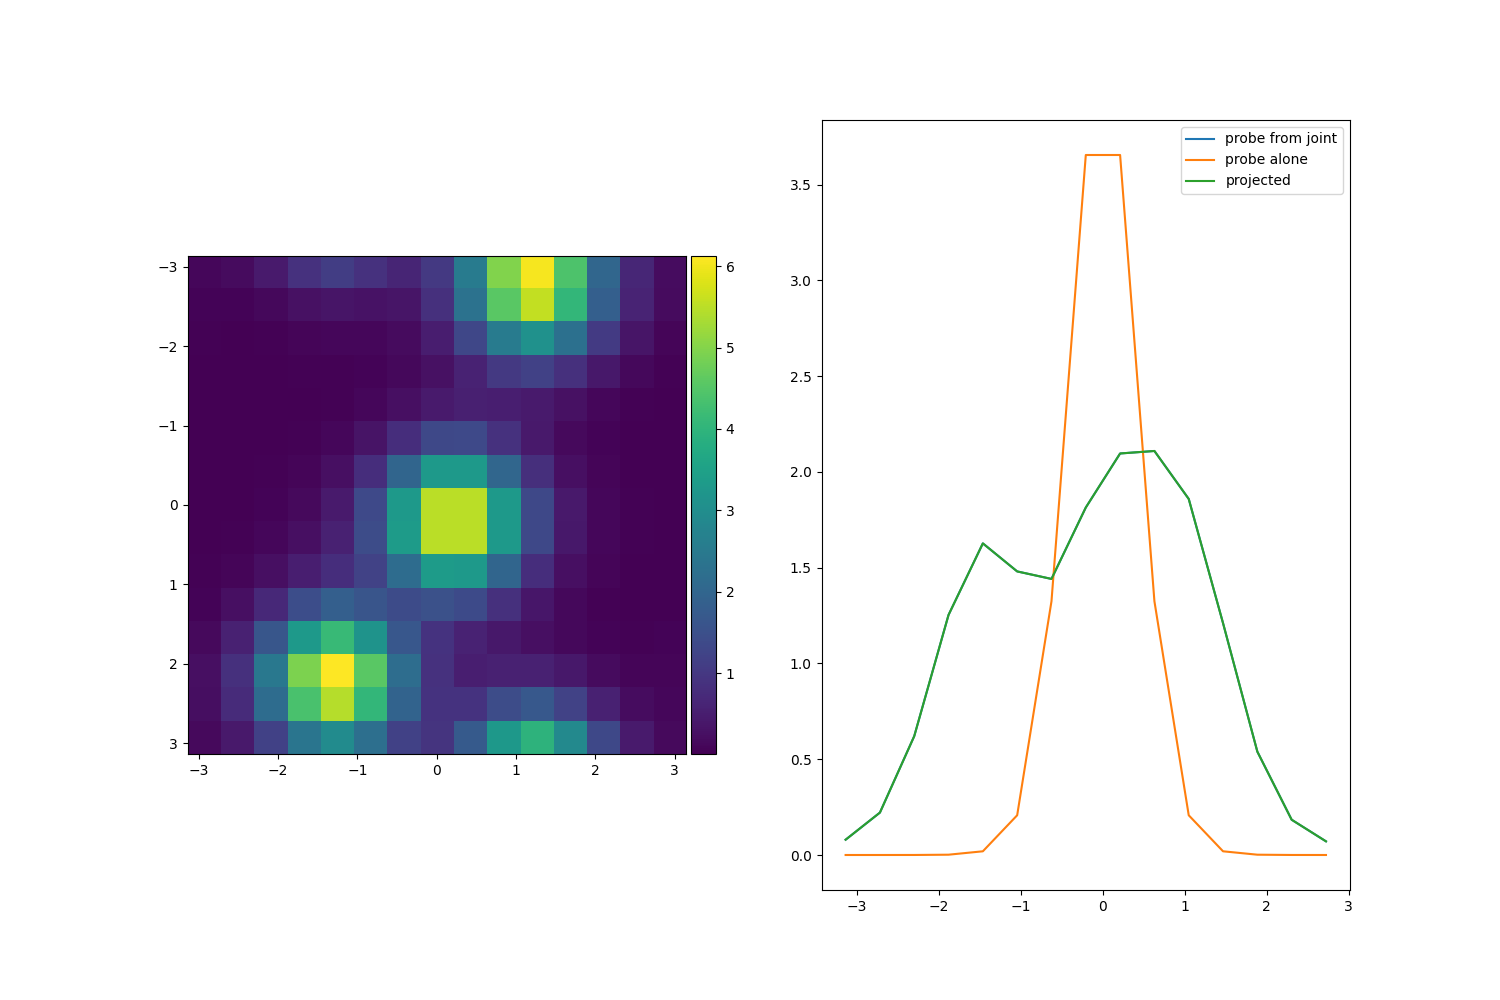
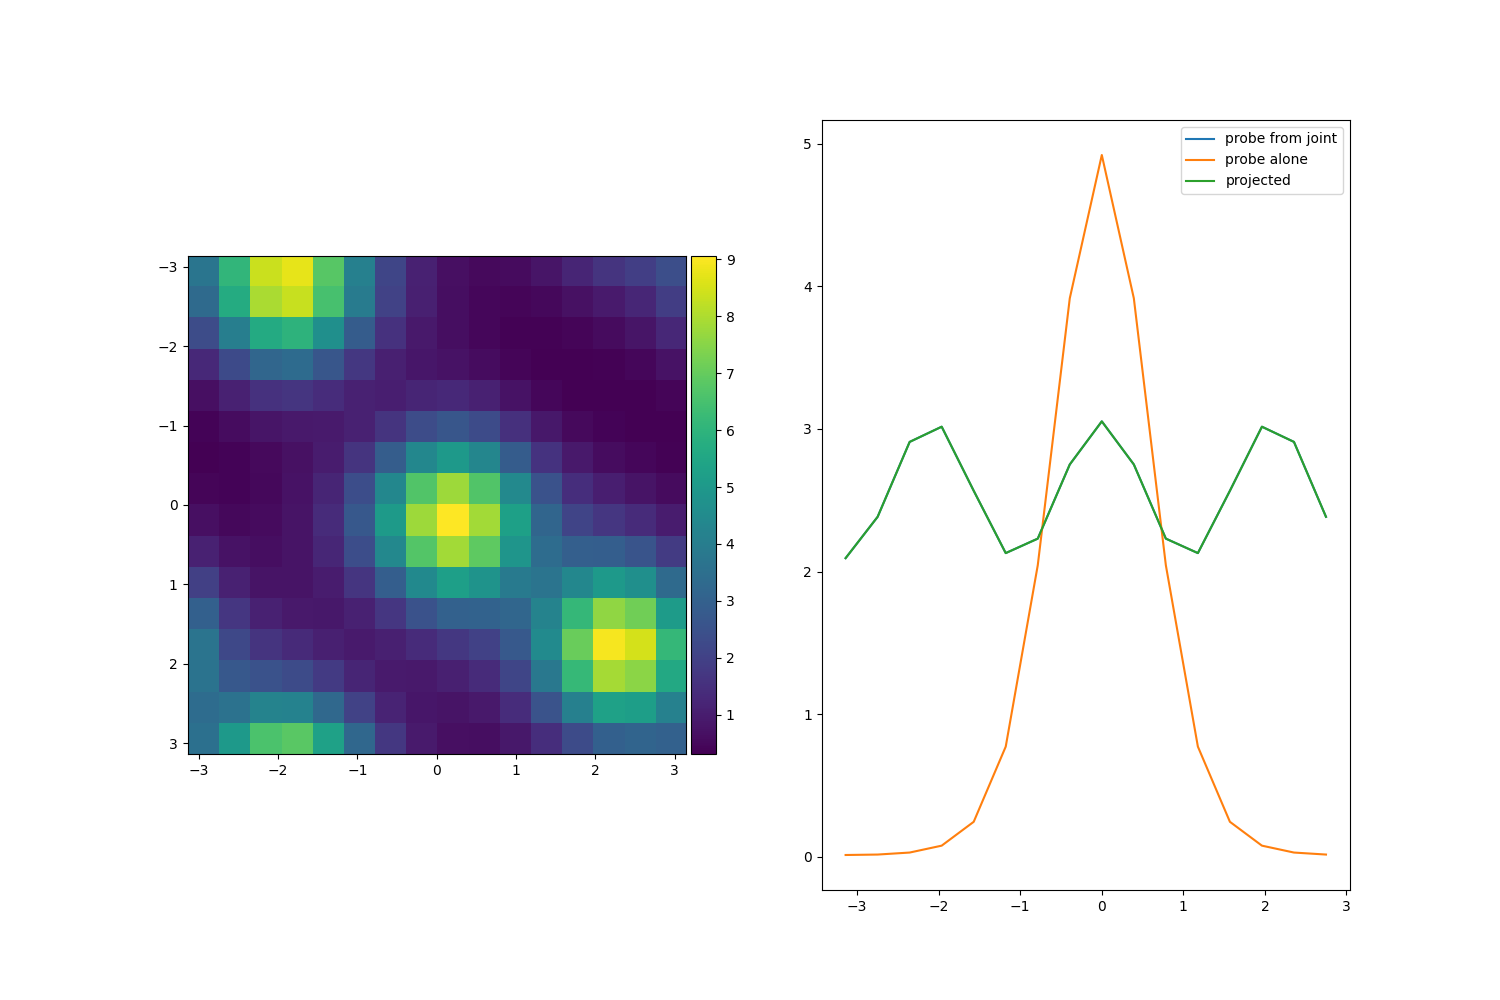
attractive force cue done

diff --git a/dynamic_observer/palimpsest.py b/dynamic_observer/palimpsest.py
@@ -79,7 +79,7 @@ class PalimpsestRepresentation:
         """
         y = self.single_mean_response(feature_values = probe_values, feature_name = 'probe', rescale = rescale)
         
-        obs_covar = 0.008 * torch.eye(self.probe_num_tc)[*[None]*(len(probe_values.shape)-1)].repeat(*probe_values.shape[:-1], 1, 1)
+        obs_covar = 0.006 * torch.eye(self.probe_num_tc)[*[None]*(len(probe_values.shape)-1)].repeat(*probe_values.shape[:-1], 1, 1)
 
         A_squared_canvas = torch.zeros(*probe_values.shape[:-1], self.probe_num_tc, self.report_num_tc, self.probe_num_tc)
         for i in range(self.probe_num_tc):
@@ -98,9 +98,10 @@ class PalimpsestRepresentation:
 
 class CircularDDM:
 
-    def __init__(self, duration: float, discretiser: DynamicsDiscretiser) -> None:
+    def __init__(self, duration: float, discretiser: DynamicsDiscretiser, noise_mag: float) -> None:
         self.duration = duration
         self.discretiser = discretiser
+        self.noise_mag = noise_mag
     
     def run_ddm(self, stimulus: _T, angles: _T) -> _T:
         """
@@ -116,11 +117,87 @@ class CircularDDM:
         angles_x, angles_y = angles.cos(), angles.sin() # both [num angles]
         resultants = (stimulus.unsqueeze(-1) * torch.stack([angles_x, angles_y], -1)[None, None, None]).mean(-2)    # [batch, num trials, num steps, 2]
 
-        scaled_noisy_resultants = (dt * resultants) + (dt.sqrt() * torch.randn_like(resultants))    # [batch, num trials, num steps, 2]
+        scaled_noisy_resultants = (dt * resultants) + (dt.sqrt() * self.noise_mag * torch.randn_like(resultants))    # [batch, num trials, num steps, 2]
 
         trajectory = scaled_noisy_resultants.cumsum(-2)  # [batch, num trials, 2]
 
         return trajectory
+
+
+
+def run_custom_dynamics(
+    start_samples: _T, smdm: ContinuousTimeScoreMatchingDiffusionModel, palimp: PalimpsestRepresentation,
+    stimuli: Tuple[_T, ...], cued_probe_values: _T, num_steps: int
+) -> _T:
+    """
+    start_samples of shape [B, D]
+
+    cued_probe_values of shape [B]
+    """
+    start_samples = start_samples.unsqueeze(-2) # [B, 1, D]
+
+    time: _T = torch.linspace(smdm.noise_schedule.duration, 0.0, num_steps+1)[1:]  # [num_steps]
+    time = time.reshape(1, -1, 1)   # [1, num steps, 1]
+
+    delta_t = - torch.diff(time, dim = len(time.shape)-2) # reverse time! [...1, num_steps - 1, 1]
+
+    num_extra_steps = delta_t.shape[-2]
+
+    beta = smdm.noise_schedule.beta(time)
+
+    trajectory = [start_samples]
+
+    score_approximator_dispatcher = smdm.score_approximator.prepare_dispatcher(
+        stimuli = stimuli, t = time[0, ..., :-1, 0]        # Not sure why but [1:] doesn't work here...!
+    )
+
+    fig, axes = plt.subplots(1)
+
+    current_cued_probe_values = cued_probe_values
+
+    for t_tilde_idx in tqdm(range(num_extra_steps)):
+
+        beta_k = beta[..., [t_tilde_idx], :]    # Not sure why but t_tilde_idx + 1 doesn't work here...!
+        dt = delta_t[..., [t_tilde_idx], :]
+        x_k = trajectory[-1]
+
+        score_approx = score_approximator_dispatcher.approximate_score(x_t = x_k, t_tilde_idx = t_tilde_idx)  # [B, 1, D]
+
+        if True:
+            cue_dimension_activation = x_k.reshape(x_k.shape[0], palimp.report_num_tc, palimp.probe_num_tc).mean(-2)
+            normed_cue_dimension_activation = (cue_dimension_activation / 10.0).softmax(-1)
+            diffs = rectify_angles(cued_probe_values.unsqueeze(-1) - palimp.probe_centers.unsqueeze(0))
+            force_on_cue_repr = (diffs * normed_cue_dimension_activation).sum(-1)
+
+            current_cued_probe_values = rectify_angles(current_cued_probe_values + (0.15 * torch.randn_like(cued_probe_values)))
+            current_cued_probe_values = rectify_angles(current_cued_probe_values + (0.25 * force_on_cue_repr))
+
+            axes.plot(palimp.probe_centers, cue_dimension_activation[0], color = 'blue', alpha = (t_tilde_idx + 10) / (num_extra_steps + 10))
+
+            diffusion_conditioning_info = palimp.generate_diffusion_conditioning(current_cued_probe_values, num_timesteps=1, rescale = 1.5)
+
+            A = diffusion_conditioning_info['A']
+            obs = diffusion_conditioning_info['y']
+            obs_covar = diffusion_conditioning_info['obs_covar']
+            obs_covar_inv = torch.inverse(obs_covar)
+            
+            assert x_k.shape[-2] == 1
+
+            conditioned_residual = obs - torch.einsum('...ij,...j->...i', A, x_k.squeeze(-2))
+            conditioned_score = torch.einsum('...ij,...ik,...k->...j', A, obs_covar_inv, conditioned_residual)
+            
+            score_approx = score_approx + conditioned_score.unsqueeze(-2)
+
+    
+        drift = - (0.5 * beta_k * x_k) - (beta_k * score_approx)    # f(x, t) - g(t)^2 * s(x, t)
+        diffusion = beta_k.sqrt()            # g(t) dW_t
+        next_step = smdm.discretiser.step(x_k, - drift, diffusion, dt)    # Reverse time!
+        trajectory.append(next_step)
+
+    fig.savefig('asdf2')
+
+    return torch.concat(trajectory, -2)
+
 
 
 
@@ -130,6 +207,8 @@ if __name__ == '__main__':
     import matplotlib.pyplot as plt
     from mpl_toolkits.axes_grid1 import make_axes_locatable
 
+
+    #### SETUP
     num_selected_timesteps = 10
     steps_between_displays = 10
     batch_size = 4
@@ -137,15 +216,73 @@ if __name__ == '__main__':
 
     num_ddm_trials = 100
 
-    palimpsest = PalimpsestRepresentation(probe_num_tc = 15, report_num_tc = 15, div_norm = False, tuning_scale = 3.0, resp_peak = 2.5)
+    palimpsest = PalimpsestRepresentation(probe_num_tc = 16, report_num_tc = 16, div_norm = False, tuning_scale = 2.0, resp_peak = 3.0)
 
-    probes = torch.tensor([1.0, -1.5, 0.0])
-    reports = torch.tensor([-3.0, 2.0, 0.0])
+    probes = torch.tensor([-torch.pi * 2 / 3, torch.pi * 2 / 3, 0.0])
+    reports = torch.tensor([-3.0, 1.6, 0.0])
+    cued_idx = 2
+
+    noise_schedule = LinearIncreaseNoiseSchedule(0.08, 0.15, duration = 15)
+
+    score_func = TrueScore(noise_schedule = noise_schedule)
+
+    discretiser = EulerDiscretiser()
+    
+    diffmodel = ContinuousTimeScoreMatchingDiffusionModel(
+        sample_dim=palimpsest.total_size, noise_schedule=noise_schedule, 
+        score_approximator=score_func, discretiser=discretiser
+    )
+    print('DDM HAS A DIFFERENT DURIATION TO DM')
+    ddm = CircularDDM(duration = 1.0, discretiser=discretiser, noise_mag = 0.25)
 
     all_mean_responses = palimpsest.all_mean_responses(probes, reports)
-    diffusion_conditioning_info = palimpsest.generate_diffusion_conditioning(probes[[2]], num_timesteps=num_reverse_dynamics_steps - 1, rescale = 2.0)
+    diffusion_conditioning_info = palimpsest.generate_diffusion_conditioning(probes[[cued_idx]], num_timesteps=num_reverse_dynamics_steps - 1, rescale = 1.5)
     projected_mean_resposes = diffusion_conditioning_info['A'][0] @ all_mean_responses['joint_resp']
-    
+
+    target_m0 = all_mean_responses['joint_resp'][None,None].repeat(num_reverse_dynamics_steps - 1, batch_size, 1)
+    target_S0 = torch.eye(palimpsest.total_size)[None,None].repeat(num_reverse_dynamics_steps - 1, batch_size, 1, 1)
+    target_S0 = target_S0 * target_m0.unsqueeze(-1) / 10
+    palimp_stimulus = (target_m0, target_S0)
+
+    ddm_driving_mult = 5.0
+    ##########
+
+
+    #### RUN DIFFUSION MODEL
+    base_samples = torch.randn(batch_size, palimpsest.total_size)
+    all_reverse_trajectories = diffmodel.run_unconditioned_reverse_dynamics(base_samples, palimp_stimulus, num_reverse_dynamics_steps)
+
+    base_samples = torch.randn(batch_size, palimpsest.total_size)
+    all_conditioned_reverse_trajectories = diffmodel.run_conditioned_reverse_dynamics(
+        base_samples, palimp_stimulus, num_reverse_dynamics_steps, 
+        diffusion_conditioning_info['y'], diffusion_conditioning_info['A'], diffusion_conditioning_info['obs_covar']
+    )
+
+    base_samples = torch.randn(batch_size, palimpsest.total_size)
+    all_custom_reverse_trajectories = run_custom_dynamics(
+        start_samples=base_samples, smdm=diffmodel, palimp=palimpsest,
+        stimuli = palimp_stimulus, cued_probe_values=probes[[cued_idx]].repeat(4),
+        num_steps = num_reverse_dynamics_steps
+    )
+    ##########
+
+
+
+    #### RUN DDM
+    uncond_ddm_driver = all_reverse_trajectories[0].reshape(num_reverse_dynamics_steps, palimpsest.report_num_tc, palimpsest.probe_num_tc).max(-1).values
+    unconditional_ddm_dynamics = ddm.run_ddm(ddm_driving_mult * uncond_ddm_driver[None,None].repeat(1, num_ddm_trials, 1, 1), palimpsest.report_centers)
+
+    cond_ddm_driver = all_conditioned_reverse_trajectories[0].reshape(num_reverse_dynamics_steps, palimpsest.report_num_tc, palimpsest.probe_num_tc).max(-1).values
+    conditional_ddm_dynamics = ddm.run_ddm(ddm_driving_mult * cond_ddm_driver[None,None].repeat(1, num_ddm_trials, 1, 1), palimpsest.report_centers)
+
+    custom_ddm_driver = all_custom_reverse_trajectories[0].reshape(num_reverse_dynamics_steps, palimpsest.report_num_tc, palimpsest.probe_num_tc).max(-1).values
+    custom_ddm_dynamics = ddm.run_ddm(ddm_driving_mult * custom_ddm_driver[None,None].repeat(1, num_ddm_trials, 1, 1), palimpsest.report_centers)
+    ##########
+
+
+
+
+    #### PLOT
     fig, axes = plt.subplots(1, 2, figsize = (15, 10))
     ims = palimpsest.display_population_response(all_mean_responses['joint_resp'], axes[0])
     divider = make_axes_locatable(axes[0])
@@ -159,8 +296,6 @@ if __name__ == '__main__':
 
     fig.savefig('/homes/pr450/repos/research_projects/sampling_ddpm/dynamic_observer/palimpsest_mean_resp.png')
 
-    noise_schedule = LinearIncreaseNoiseSchedule(0.15, 0.15, duration = 50)
-
     fig, axes = plt.subplots(1, figsize = (5, 5))
     scaling_factor_time, scaling_factor = noise_schedule.summarise_noising_factor(100)
     axes.plot(scaling_factor_time.cpu().numpy(), scaling_factor.cpu().numpy())
@@ -168,49 +303,7 @@ if __name__ == '__main__':
 
     fig.savefig('/homes/pr450/repos/research_projects/sampling_ddpm/dynamic_observer/palimpsest_schedule.png')
 
-
-    score_func = TrueScore(noise_schedule = noise_schedule)
-
-    discretiser = EulerDiscretiser()
-    
-    diffmodel = ContinuousTimeScoreMatchingDiffusionModel(
-        sample_dim=palimpsest.total_size, noise_schedule=noise_schedule, 
-        score_approximator=score_func, discretiser=discretiser
-    )
-
-    print('DDM HAS A DIFFERENT DURIATION TO DM')
-    ddm = CircularDDM(duration = 1.0, discretiser=discretiser)
-
-    target_m0 = all_mean_responses['joint_resp'][None,None].repeat(num_reverse_dynamics_steps - 1, batch_size, 1)
-    target_S0 = torch.eye(palimpsest.total_size)[None,None].repeat(num_reverse_dynamics_steps - 1, batch_size, 1, 1)
-    target_S0 = target_S0 * target_m0.unsqueeze(-1) / 10
-    stimulus = (target_m0, target_S0)
-
-    ddm_driving_mult = 0.0
-
-    base_samples = torch.randn(batch_size, palimpsest.total_size)
-    all_reverse_trajectories = diffmodel.run_unconditioned_reverse_dynamics(base_samples, stimulus, num_reverse_dynamics_steps)
-    uncond_ddm_driver = all_reverse_trajectories[0].reshape(num_reverse_dynamics_steps, palimpsest.report_num_tc, palimpsest.probe_num_tc).max(-1).values
-    unconditional_ddm_dynamics = ddm.run_ddm(ddm_driving_mult * uncond_ddm_driver[None,None].repeat(1, num_ddm_trials, 1, 1), palimpsest.report_centers)
-
-    base_samples = torch.randn(batch_size, palimpsest.total_size)
-    all_conditioned_reverse_trajectories = diffmodel.run_conditioned_reverse_dynamics(
-        base_samples, stimulus, num_reverse_dynamics_steps, 
-        diffusion_conditioning_info['y'], diffusion_conditioning_info['A'], diffusion_conditioning_info['obs_covar']
-    )
-    cond_ddm_driver = all_conditioned_reverse_trajectories[0].reshape(num_reverse_dynamics_steps, palimpsest.report_num_tc, palimpsest.probe_num_tc).max(-1).values
-    conditional_ddm_dynamics = ddm.run_ddm(ddm_driving_mult * cond_ddm_driver[None,None].repeat(1, num_ddm_trials, 1, 1), palimpsest.report_centers)
-
-    # y_noise = torch.randn_like(diffusion_conditioning_info['y']) * diffusion_conditioning_info['y']
-    # noisy_y = y_noise + diffusion_conditioning_info['y']
-
-    # base_samples = torch.randn(batch_size, palimpsest.total_size)
-    # all_noisy_conditioned_reverse_trajectories = diffmodel.run_conditioned_reverse_dynamics(
-    #     base_samples, stimulus, num_reverse_dynamics_steps, 
-    #     noisy_y, diffusion_conditioning_info['A'], diffusion_conditioning_info['obs_covar']
-    # )
-
-    fig, axes = plt.subplots(2, num_selected_timesteps + 2, figsize = ((2 + num_selected_timesteps) * 5, 3 * 5))
+    fig, axes = plt.subplots(3, num_selected_timesteps + 2, figsize = ((2 + num_selected_timesteps) * 5, 3 * 5))
 
     selected_timesteps = range(steps_between_displays, num_reverse_dynamics_steps+1, steps_between_displays)
 
@@ -218,8 +311,10 @@ if __name__ == '__main__':
         axes[0,i_a].set_title(f'reverse step: {i_t+1} of {num_reverse_dynamics_steps}')
         im_unc = palimpsest.display_population_response(all_reverse_trajectories[0,i_t], axes[0,i_a])
         im_cond = palimpsest.display_population_response(all_conditioned_reverse_trajectories[0,i_t], axes[1,i_a])
-        axes[0,-2].plot(uncond_ddm_driver[i_t], palimpsest.report_centers, label = i_t + 1)
-        axes[1,-2].plot(cond_ddm_driver[i_t], palimpsest.report_centers, label = i_t + 1)
+        im_cond = palimpsest.display_population_response(all_custom_reverse_trajectories[0,i_t], axes[2,i_a])
+        axes[0,-2].plot(uncond_ddm_driver[i_t], - palimpsest.report_centers, label = i_t + 1)
+        axes[1,-2].plot(cond_ddm_driver[i_t], - palimpsest.report_centers, label = i_t + 1)
+        axes[2,-2].plot(custom_ddm_driver[i_t], - palimpsest.report_centers, label = i_t + 1)
 
     axes[0,-1].legend()
     axes[1,-1].legend()
@@ -232,12 +327,21 @@ if __name__ == '__main__':
     cax = divider.append_axes('right', size='5%', pad=0.05)
     fig.colorbar(im_cond, cax=cax, orientation='vertical')
 
+    divider = make_axes_locatable(axes[2,i_a])
+    cax = divider.append_axes('right', size='5%', pad=0.05)
+    fig.colorbar(im_cond, cax=cax, orientation='vertical')
+
 
     for i_tr in range(num_ddm_trials):
         axes[0,-1].plot(* unconditional_ddm_dynamics[:,i_tr].T, color = 'gray', alpha = 0.1)
         axes[1,-1].plot(* conditional_ddm_dynamics[:,i_tr].T, color = 'gray', alpha = 0.1)
+        axes[2,-1].plot(* custom_ddm_dynamics[:,i_tr].T, color = 'gray', alpha = 0.1)
 
     axes[0,-1].set_aspect(1.0)
     axes[1,-1].set_aspect(1.0)
+    axes[2,-1].set_aspect(1.0)
 
     fig.savefig('/homes/pr450/repos/research_projects/sampling_ddpm/dynamic_observer/palimpsest_samples.png')
+    ##########
+
+

diff --git a/dynamic_observer/ct_scorematching.py b/dynamic_observer/ct_scorematching.py
@@ -191,7 +191,7 @@ class TrueScoreApproximatorDispatcher(ScoreApproximatorDispatcher):
         reshaped_m_x0, reshaped_S_x0 = stimuli
         assert len(reshaped_m_x0.shape) == 3 and len(reshaped_S_x0.shape) == 4
         reshaped_m_x0 = reshaped_m_x0.unsqueeze(-2)
-        reshaped_S_x0 = reshaped_S_x0.unsqueeze(-2)
+        reshaped_S_x0 = reshaped_S_x0.unsqueeze(-3)
 
         t = t.reshape(num_steps, *[1]* (len(reshaped_m_x0.shape) - 1))
 
@@ -210,7 +210,7 @@ class TrueScoreApproximatorDispatcher(ScoreApproximatorDispatcher):
 class ScoreApproximator(nn.Module, ABC):
 
     @abstractmethod
-    def approximate_score(self, x_t: _T, stimuli: Tuple[_T], t: _T):
+    def approximate_score(self, x_t: _T, stimuli: Tuple[_T], t: _T, **kwargs):
         """
         x_t comes in shape [..., D]
         t comes in all ones, with same number of axes
@@ -237,7 +237,7 @@ class TrueScore(ScoreApproximator):
     def prepare_dispatcher(self, stimuli: Tuple[_T, ...], t: _T) -> ScoreApproximator | ScoreApproximatorDispatcher:
         return TrueScoreApproximatorDispatcher(stimuli, t, self.noise_schedule)
 
-    def approximate_score(self, x_t: _T, stimuli: Tuple[_T, ...], t: _T):
+    def approximate_score(self, x_t: _T, stimuli: Tuple[_T, ...], t: _T, **kwargs):
         """
         Should not be directly accessed anymore!
         """
@@ -319,13 +319,13 @@ class ContinuousTimeScoreMatchingDiffusionModel(nn.Module):
         # In other cases, this will just return self
 
         score_approximator_dispatcher = self.score_approximator.prepare_dispatcher(
-            stimuli = stimulus, t = time[0, ..., 1:, 0]
+            stimuli = stimulus, t = time[0, ..., :-1, 0]        # Not sure why but [1:] doesn't work here...!
         )
 
         for t_tilde_idx in tqdm(range(num_extra_steps)):
 
-            t_tilde = time[..., [t_tilde_idx + 1], :]
-            beta_k = beta[..., [t_tilde_idx + 1], :]
+            t_tilde = time[..., [t_tilde_idx], :]   # Not sure why but t_tilde_idx + 1 doesn't work here...!
+            beta_k = beta[..., [t_tilde_idx], :]    # Not sure why but t_tilde_idx + 1 doesn't work here...!
             dt = delta_t[..., [t_tilde_idx], :]
             x_k = trajectory[-1]
             step_stimuli = tuple(stim[t_tilde_idx] for stim in stimulus)
@@ -448,7 +448,6 @@ class ContinuousTimeScoreMatchingDiffusionModel(nn.Module):
         start_time: float = None, end_time: float = 0.0,
     ) -> _T:
         """
-        XXX: TODO: ADD STEERING SCORE --> other methods
         aka generate samples
 
         Use Euler method to run reverse dynamics, evaluating at regular intervals
@@ -462,7 +461,7 @@ class ContinuousTimeScoreMatchingDiffusionModel(nn.Module):
         assert all(stim.shape[0] == num_steps - 1 for stim in stimulus)
         assert observations.shape[0] == projection_matrix.shape[0] == observation_noise_covar.shape[0] == num_steps - 1
 
-        time = torch.linspace(start_time, end_time, num_steps)  # [num_steps]
+        time = torch.linspace(start_time, end_time, num_steps + 1)[1:]  # [num_steps]  # [num_steps]
         time = time.unsqueeze(-1)[*[None]*(len(samples_shape)-1)] # [num_steps] -> [num_steps, 1] -> [...1, num_steps, 1]
         start_samples = start_samples.unsqueeze(-2) # [..., 1, D]
 
@@ -492,10 +491,10 @@ if __name__ == '__main__':
 
     target_m0 = torch.tensor([-50.0, -10.0])[None,None].repeat(num_reverse_dynamics_steps, batch_size, 1)
     target_S0 = torch.tensor([[10.0, -3.0], [-3.0, 4.0]])[None,None].repeat(num_reverse_dynamics_steps, batch_size, 1, 1)
-    stimulus = (target_m0, target_S0)
+    vector_stimulus = (target_m0, target_S0)
 
     base_samples = torch.randn(batch_size, 2)
-    all_reverse_trajectories = diffmodel.run_unconditioned_reverse_dynamics(base_samples, stimulus, num_reverse_dynamics_steps).cpu().numpy()
+    all_reverse_trajectories = diffmodel.run_unconditioned_reverse_dynamics(base_samples, vector_stimulus, num_reverse_dynamics_steps).cpu().numpy()
     example_reverse_trajectories = all_reverse_trajectories[:5]
     end_reverse_samples = all_reverse_trajectories[:,-1,:]
 
@@ -506,7 +505,7 @@ if __name__ == '__main__':
 
     base_samples = torch.randn(batch_size, 2)
     all_conditioned_reverse_trajectories = diffmodel.run_conditioned_reverse_dynamics(
-        base_samples, stimulus, num_reverse_dynamics_steps, observations, projection_matrix, observation_noise_covar
+        base_samples, vector_stimulus, num_reverse_dynamics_steps, observations, projection_matrix, observation_noise_covar
     ).cpu().numpy()
     example_conditioned_reverse_trajectories = all_conditioned_reverse_trajectories[:5]
     end_conditioned_reverse_samples = all_conditioned_reverse_trajectories[:,-1,:]
